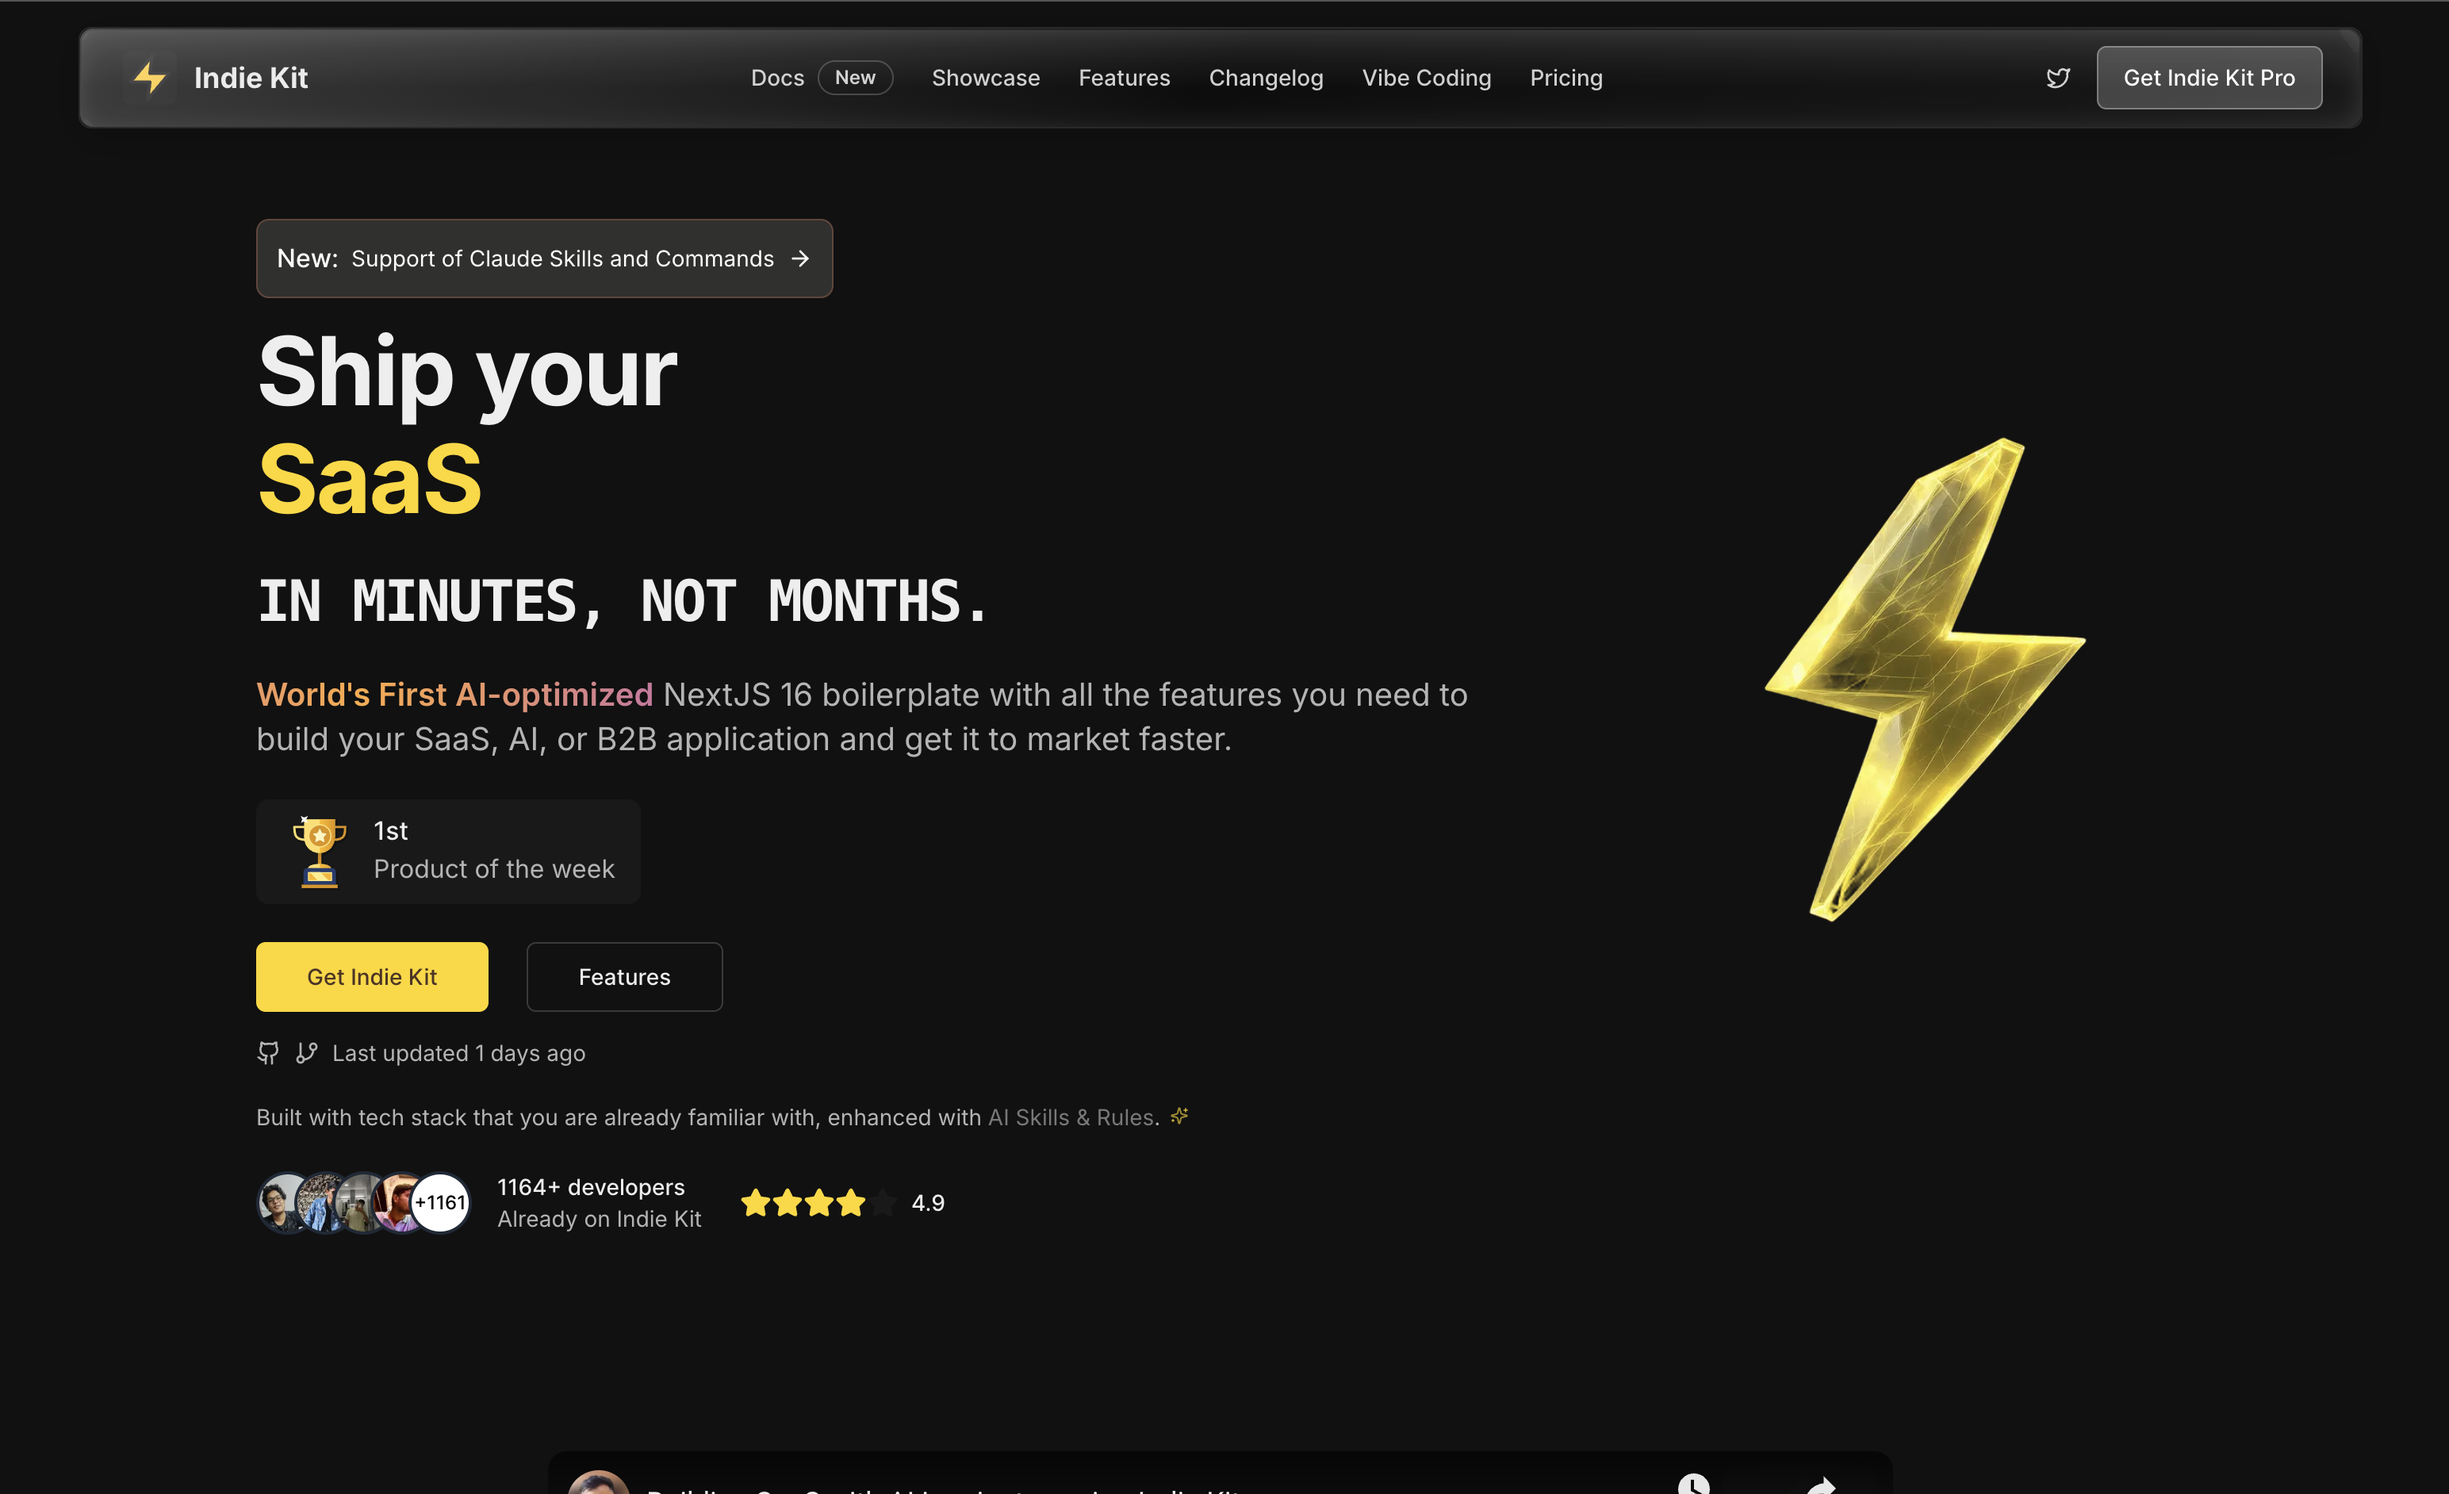
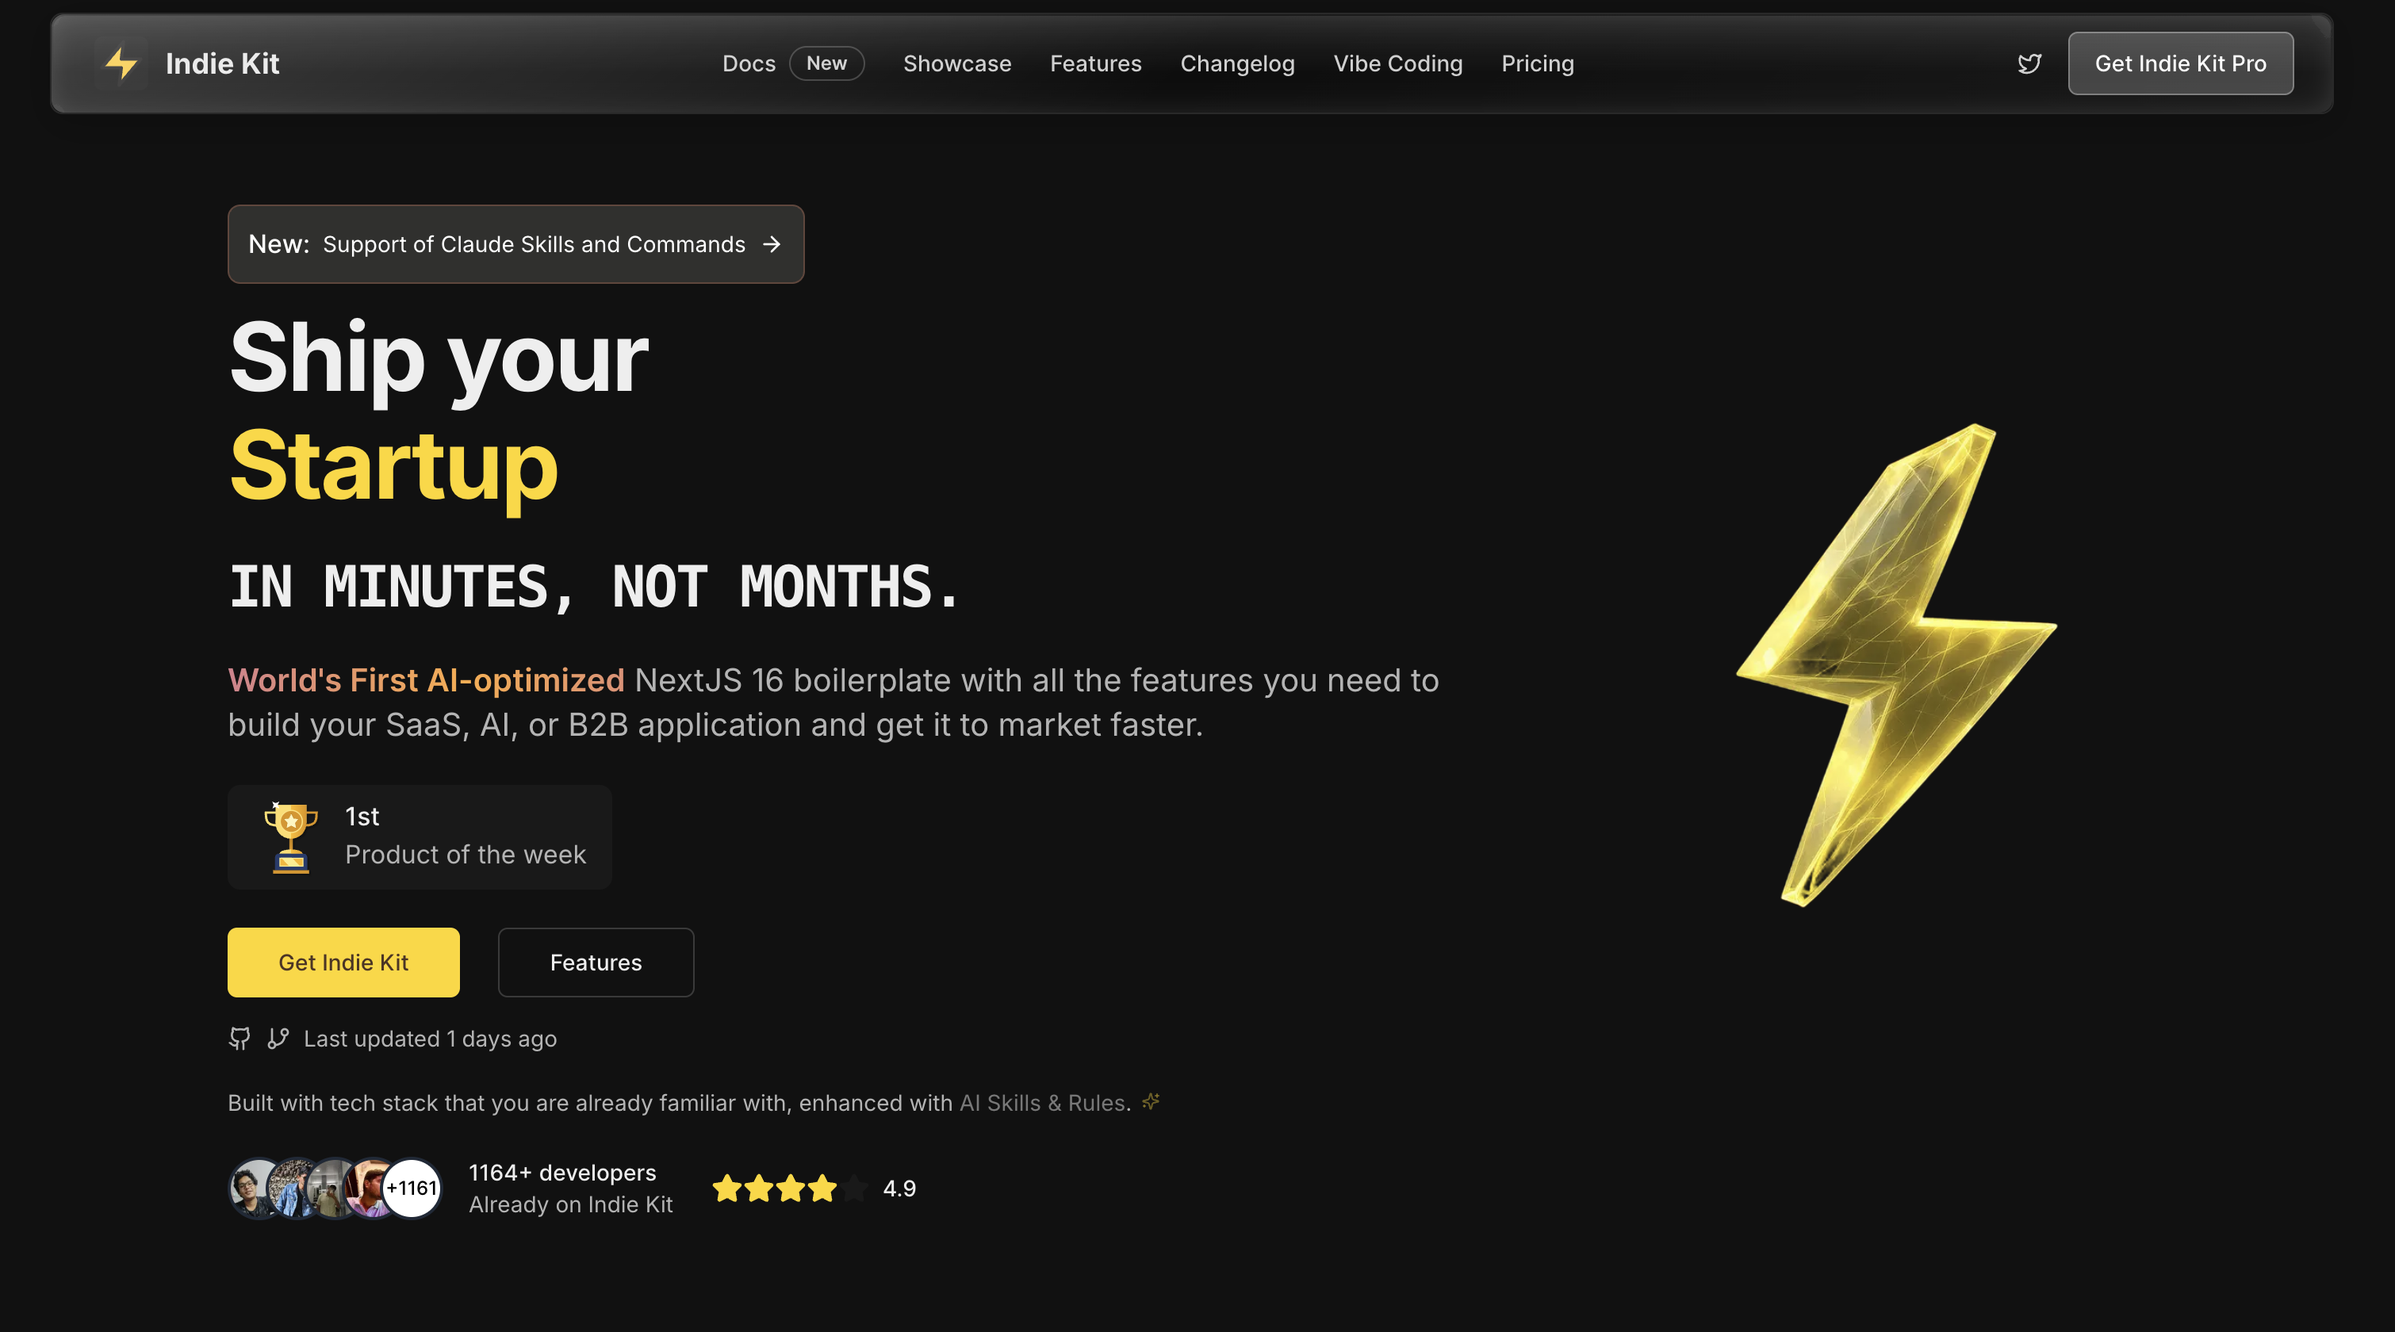
refactor: Update README for clarity and rebranding, replacing "Indie Kit - The AI-Native Next.js SaaS Starter" with "Indie Kit - The AI-Native Next.js Starter Kit", and enhancing AI-related features and instructions. Update hero image.

diff --git a/README.md b/README.md
@@ -1,4 +1,4 @@
-# Indie Kit - The AI-Native Next.js SaaS Starter
+# Indie Kit - The AI-Native Next.js Starter Kit
 
 ![Indie Kit](public/hero.png)
 
@@ -13,23 +13,15 @@
 
 </div>
 
-# The "Cursor-Native" AI Starter Kit 🤖
+# The AI-Native Next.js Starter Kit 🤖
 
-**Stop fighting with your AI editor. Start "Vibe Coding" with a codebase that speaks its language.**
+**Engineered for modern development. Optimized for AI.**
 
-This is the **Open Source / Lite Version** of [Indie Kit Pro](https://indiekit.pro/?utm_source=github-starter&utm_medium=readme&utm_campaign=lite). It comes pre-loaded with **"AI Context Rules"** that turn Cursor, Windsurf, and Claude into expert senior engineers who know your project inside out.
+This is the **Open Source / Lite Version** of [Indie Kit Pro](https://indiekit.pro/?utm_source=github-starter&utm_medium=readme&utm_campaign=lite). It combines a production-grade tech stack with **"AI Context Rules"** that empower LLMs (Cursor, Windsurf, Copilot) to understand your codebase, write bug-free code, and navigate your project autonomously.
 
 [![License: MIT](https://img.shields.io/badge/License-MIT-yellow.svg?style=for-the-badge)](https://opensource.org/licenses/MIT)
 [![Next.js](https://img.shields.io/badge/Next.js-16-black?style=for-the-badge)](https://nextjs.org/)
 [![TypeScript](https://img.shields.io/badge/TypeScript-5-blue?style=for-the-badge)](https://www.typescriptlang.org/)
-
-## 🧠 "Vibe Coding" Mode
-
-Coding shouldn't feel like wrestling with context windows. We've structured this entire repository to be "AI-Readable" from day one.
-
-- **Self-Documenting Code**: Your AI knows *exactly* where auth lives (`.claude/skills/auth-handler`), how to migrate the DB (`.cursor/rules`), and where to put new components.
-- **No Hallucinations**: We force the AI to use existing patterns (like `withAuthRequired`) instead of inventing broken ones.
-- **One-Shot Prompts**: Paste a single command like `/bootstrap` and watch it scaffold your entire MVP plan.
 
 ## 🚀 Features
 
@@ -47,6 +39,19 @@ Coding shouldn't feel like wrestling with context windows. We've structured this
 - 🔐 **Auth Pages** (Sign In, Sign Up)
 - ⚙ **App Layout** (Sidebar, Header, User Profile)
 - 📄 **Legal Pages** (Privacy, Terms)
+
+## 🤖 AI-Optimized Architecture
+
+We've structured the codebase to be easily understood by LLMs (Cursor, Windsurf, Copilot, Antigravity). This means fewer hallucinations and better code generation, regardless of which tool you use.
+
+- **Self-Documenting Code**: Your AI knows *exactly* where auth lives (`.claude/skills/auth-handler`), how to migrate the DB (`.cursor/rules`), and where to put new components.
+- **No Hallucinations**: We force the AI to use existing patterns (like `withAuthRequired`) instead of inventing broken ones.
+- **One-Shot Prompts**: Paste a single command like `/bootstrap` and watch it scaffold your entire MVP plan.
+
+💡 **Pro Tip**: To use this kit with Google's Antigravity or other AI agents that expect a `.agent` folder, simply rename `.claude` to `.agent`:
+```bash
+mv .claude .agent
+```
 
 ## 🛠 Getting Started
 
@@ -87,28 +92,14 @@ pnpm dev
 
 Open [http://localhost:3000](http://localhost:3000) to see your app.
 
-## 🤖 How to use with AI
+## 🧠 The AI "Brain" (Exclusive)
 
-This is where the magic happens. Open this project in **Cursor** or **Windsurf**.
+This kit is designed to be "read" by LLMs. It includes:
 
-### The Bootstrap Command
-
-Open your AI chat (Cmd+L or Cmd+K) and type:
-
-```
-/bootstrap
-```
-
-The AI will read `.claude/commands/bootstrap.md` and guide you through:
-1.  **Requirements Gathering**: Defining your SaaS idea.
-2.  **Schema Design**: Creating your database tables.
-3.  **API Implementation**: Building secure routes.
-4.  **UI Construction**: Generating forms and pages.
-
-💡 **Pro Tip**: To use this kit with Google's Antigravity or other AI agents that expect a `.agent` folder, simply rename `.claude` to `.agent`:
-```bash
-mv .claude .agent
-```
+- **`.cursor/rules`**: Context-aware rules for Cursor to understand project structure.
+- **Prompt Library**: Pre-written prompts to generate features, DB schemas, and tests.
+- **Self-Correction**: Setup to help AI fix its own linting errors.
+- **Skills**: Specialized instructions for the AI to handle Auth, DB, and Payments correctly.
 
 ## 📦 Project Structure
 
@@ -130,15 +121,6 @@ src/
 │   ├── stripes.ts       # Payment utilities
 │   └── ...
 ```
-
-## 🧠 The AI "Brain" (Exclusive)
-
-This kit is designed to be "read" by LLMs. It includes:
-
-- **`.cursor/rules`**: Context-aware rules for Cursor to understand project structure.
-- **Prompt Library**: Pre-written prompts to generate features, DB schemas, and tests.
-- **Self-Correction**: Setup to help AI fix its own linting errors.
-- **Skills**: Specialized instructions for the AI to handle Auth, DB, and Payments correctly.
 
 ## 💎 Indie Kit Pro vs Starter
 
